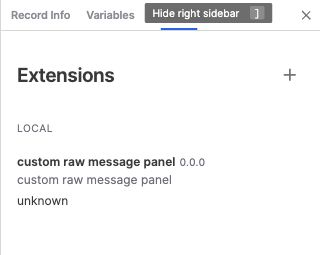
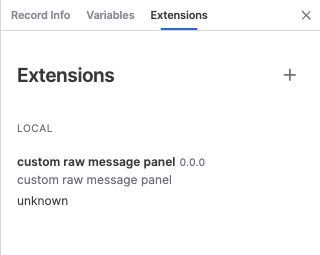
docs: keep tutorial screenshots in separate paragraphs

Changed region(s): [[0.4375, 0.0, 0.875, 0.1098]]

diff --git a/i18n/en/docusaurus-plugin-content-docs/current/viz/8-extensions/3-best-practices/2-custom-panel.md b/i18n/en/docusaurus-plugin-content-docs/current/viz/8-extensions/3-best-practices/2-custom-panel.md
@@ -384,15 +384,18 @@ To build and install the plugin for local testing in coStudio, run the following
 npm run local-install
 ```
 
-To test in the Web app, run `npm run package`, then choose the generated `.coe` file from **Extensions** → **Install Extension** → **Install from local** in the right sidebar. `local-install` does not update browser extensions.
+To test in the Web app, run `npm run package`, then choose the generated `.coe` file from **Extensions** → **Install Extension** → **Install from Local** in the right sidebar. `local-install` does not update browser extensions.
 
 Open the extension list on the right side, and you'll now see `custom raw message panel` in the list of installed extensions:
+
 ![Installed custom raw message panel extension](./img/3-2-custom-panel-extensions.jpg)
 
 The panel list will also have a new `custom-raw-message-panel` panel. Add our panel and open any file, and you can use our custom `custom-raw-message-panel` panel:
+
 ![Custom raw message panel in the panel catalog](./img/3-2-custom-panel-catalog.jpg)
 
 You can choose the topic you want to view in the settings and customize the panel's appearance to view messages for the corresponding topic in the panel:
+
 ![Custom raw message panel with topic and appearance settings](./img/3-2-custom-panel-settings.jpg)
 
 ## Share Your Plugin

diff --git a/docs/viz/8-extensions/3-best-practices/2-custom-panel.md b/docs/viz/8-extensions/3-best-practices/2-custom-panel.md
@@ -362,12 +362,15 @@ npm run local-install
 在 Web 应用中测试时，运行 `npm run package`，然后通过右侧“插件”中的“安装插件”→“从本地安装”选择生成的 `.coe` 文件。`local-install` 不会更新浏览器中的插件。
 
 打开右侧的插件列表，您现在将看到 `custom raw message panel` 已在安装列表中：
+
 ![已安装的自定义消息面板插件](./img/3-2-custom-panel-extensions.jpg)
 
 面板列表中也将多出一个 `custom-raw-message-panel` 的面板，添加我们的面板，并且打开任意文件，你就可以使用我们自定义的 `custom-raw-message-panel` 面板了：
+
 ![面板目录中的自定义消息面板](./img/3-2-custom-panel-catalog.jpg)
 
 你可以在设置中选择你要查看的话题，并且自定义面板的外观，在面板中查看到对应话题的消息：
+
 ![自定义消息面板及话题和外观设置](./img/3-2-custom-panel-settings.jpg)
 
 ## 分享您的插件
